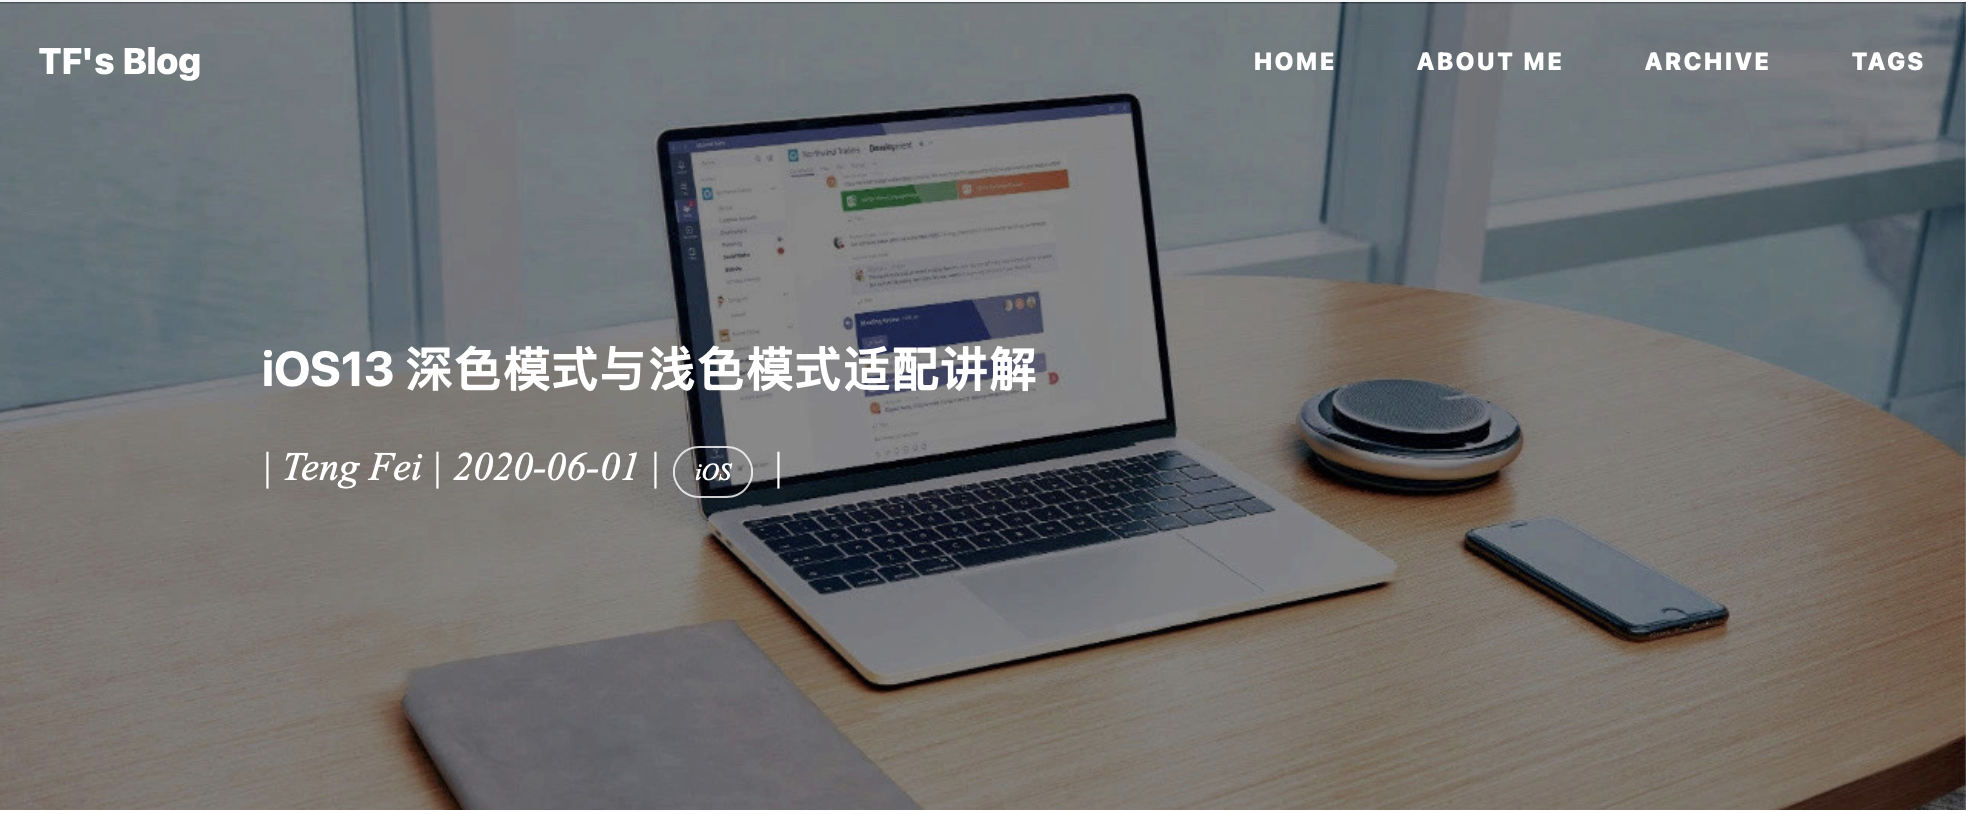
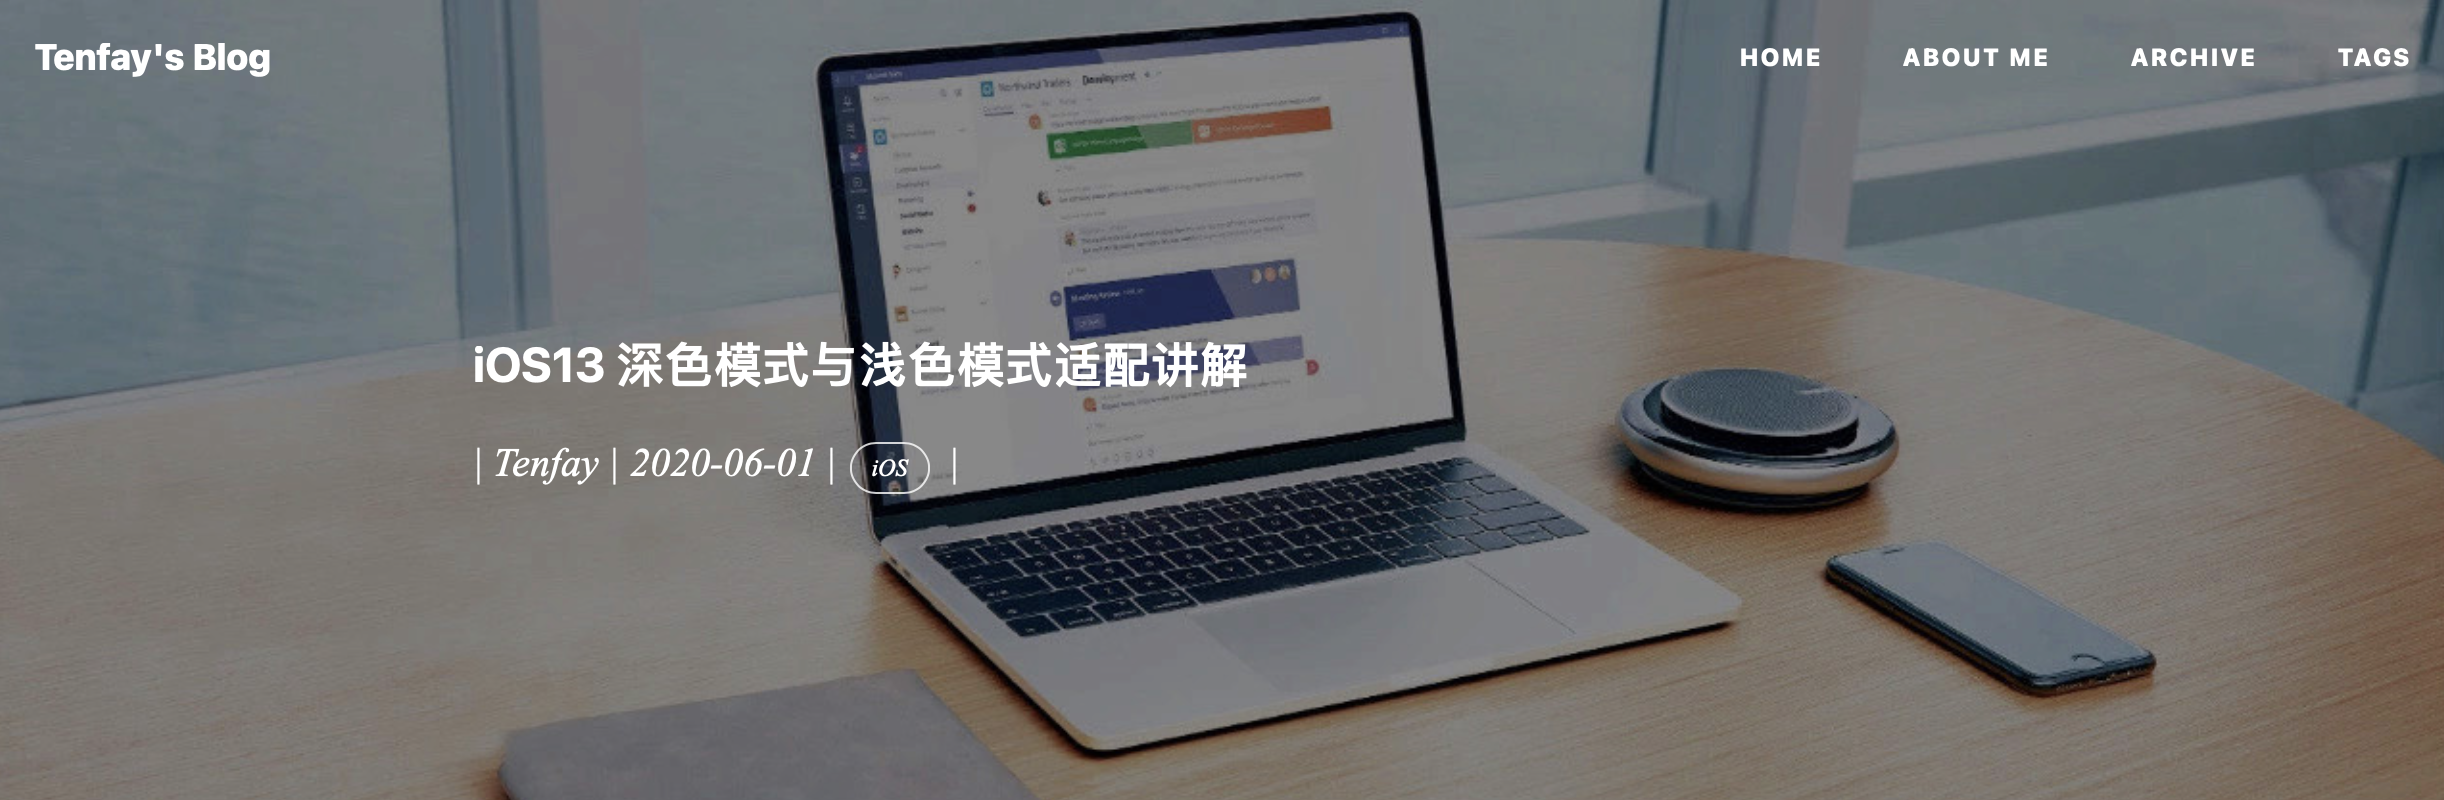
Update

diff --git a/_layouts/keynote.html b/_layouts/keynote.html
@@ -42,7 +42,7 @@ layout: default
                         <!-- 
                             <span class="meta">Posted by {% if page.author %}{{ page.author }}{% else %}{{ site.title }}{% endif %} on {{ page.date | date: "%B %-d, %Y" }}</span> 
                         -->
-                        <span class="meta">| <a href="https://github.com/chenxing640" title="chenxing640">{% if page.author %}{{ page.author }}{% else %}{{ site.title }}{% endif %}</a> | {{ page.date | date: "%Y-%m-%d" }} | 
+                        <span class="meta">| <a href="https://github.com/itenfay" title="itenfay">{% if page.author %}{{ page.author }}{% else %}{{ site.title }}{% endif %}</a> | {{ page.date | date: "%Y-%m-%d" }} |
                         <span class="tags">
                             {% for tag in page.tags %}
                             <a class="tag" href="{{ site.baseurl }}/tags/#{{ tag }}" title="{{ tag }}">{{ tag }}</a>
@@ -133,7 +133,7 @@ layout: default
 
                 {% if site.utterances_username %}
                 <!-- utterances start -->
-                <script src="https://utteranc.es/client.js" repo="chenxing640/TFs-Blog-Comments" issue-term="pathname"
+                <script src="https://utteranc.es/client.js" repo="itenfay/Tenfays-Blog-Comments" issue-term="pathname"
                     theme="github-light" crossorigin="anonymous" async>
                     </script>
                 <!-- utterances 公共JS代码 end -->

diff --git a/_layouts/post.html b/_layouts/post.html
@@ -33,7 +33,7 @@ layout: default
                     <!-- 
                         <span class="meta">Posted by {% if page.author %}{{ page.author }}{% else %}{{ site.title }}{% endif %} on {{ page.date | date: "%B %-d, %Y" }}</span> 
                     -->
-                    <span class="meta">| <a href="https://github.com/chenxing640" title="chenxing640">{% if page.author %}{{ page.author }}{% else %}{{ site.title }}{% endif %}</a> | {{ page.date | date: "%Y-%m-%d" }} | 
+                    <span class="meta">| <a href="https://github.com/itenfay" title="itenfay">{% if page.author %}{{ page.author }}{% else %}{{ site.title }}{% endif %}</a> | {{ page.date | date: "%Y-%m-%d" }} |
                     <span class="tags">
                         {% for tag in page.tags %}
                         <a class="tag" href="{{ site.baseurl }}/tags/#{{ tag }}" title="{{ tag }}">{{ tag }}</a>
@@ -125,7 +125,7 @@ layout: default
                 
                 {% if site.utterances_username %}
                 <!-- utterances start -->
-                <script src="https://utteranc.es/client.js" repo="chenxing640/TFs-Blog-Comments" issue-term="pathname"
+                <script src="https://utteranc.es/client.js" repo="itenfay/Tenfays-Blog-Comments" issue-term="pathname"
                     theme="github-light" crossorigin="anonymous" async>
                     </script>
                 <!-- utterances 公共JS代码 end -->

diff --git a/about.html b/about.html
@@ -314,7 +314,7 @@ header-img: "images/about-bg.jpg"
 {% if site.utterances_username %}
 <!-- utterances start -->
 <script src="https://utteranc.es/client.js"
-        repo="chenxing640/TFs-Blog-Comments"
+        repo="itenfay/Tenfays-Blog-Comments"
         issue-term="pathname"
         theme="github-light"
         crossorigin="anonymous"

diff --git a/README.md b/README.md
@@ -3,7 +3,7 @@
 
 #### [我的博客在这里→](https://itenfay.github.io)
 
-![](https://github.com/itenfay/itenfay.github.io/raw/master/images/tf-blog.png)
+![](https://github.com/itenfay/itenfay.github.io/raw/master/images/tenfay-blog.png)
 
 
 ## 各版本特性
@@ -197,7 +197,7 @@ ba_track_id: 4cc1f2d8f3067386cc5cdb626a202900
 
 # Google Analytics
 ga_track_id: 'UA-49627206-1'  # Format: UA-xxxxxx-xx
-ga_domain: tengfei.com
+ga_domain: tenfay.com
 ```
 
 
@@ -221,7 +221,7 @@ There are a number of tasks it performs like minification of the JavaScript, com
 
 #### SEO Title
 
-我的博客标题是 **“TF's Blog”**，但是我想要在搜索的时候显示 **“腾飞的博客 | TF's Blog”** ，这个就需要 **SEO Title** 来定义了。
+我的博客标题是 **“Tenfay's Blog”**，但是我想要在搜索的时候显示 **“腾飞的博客 | Tenfay's Blog”** ，这个就需要 **SEO Title** 来定义了。
 
 其实这个 **SEO Title** 就是定义了<head><title>标题</title></head>，这个里面的东西和多说分享的标题，你可以自行修改的。
 
